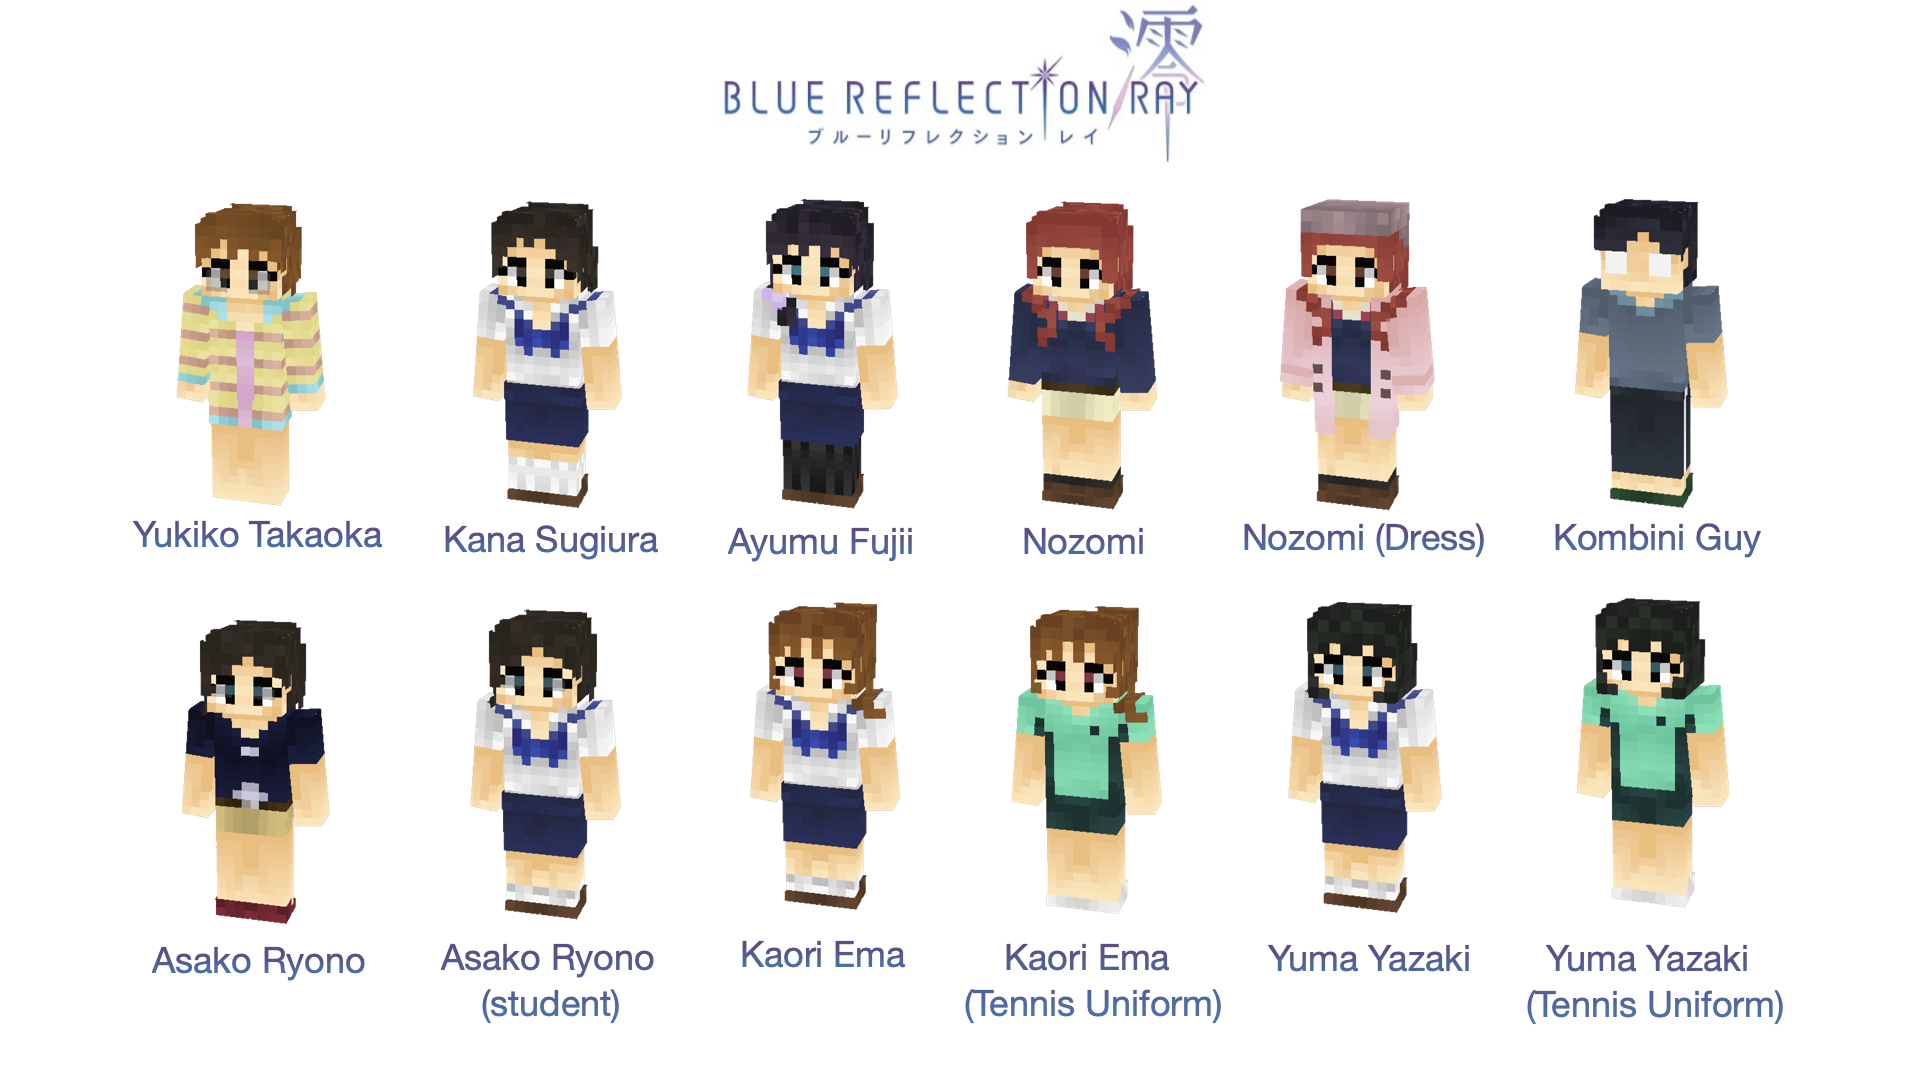
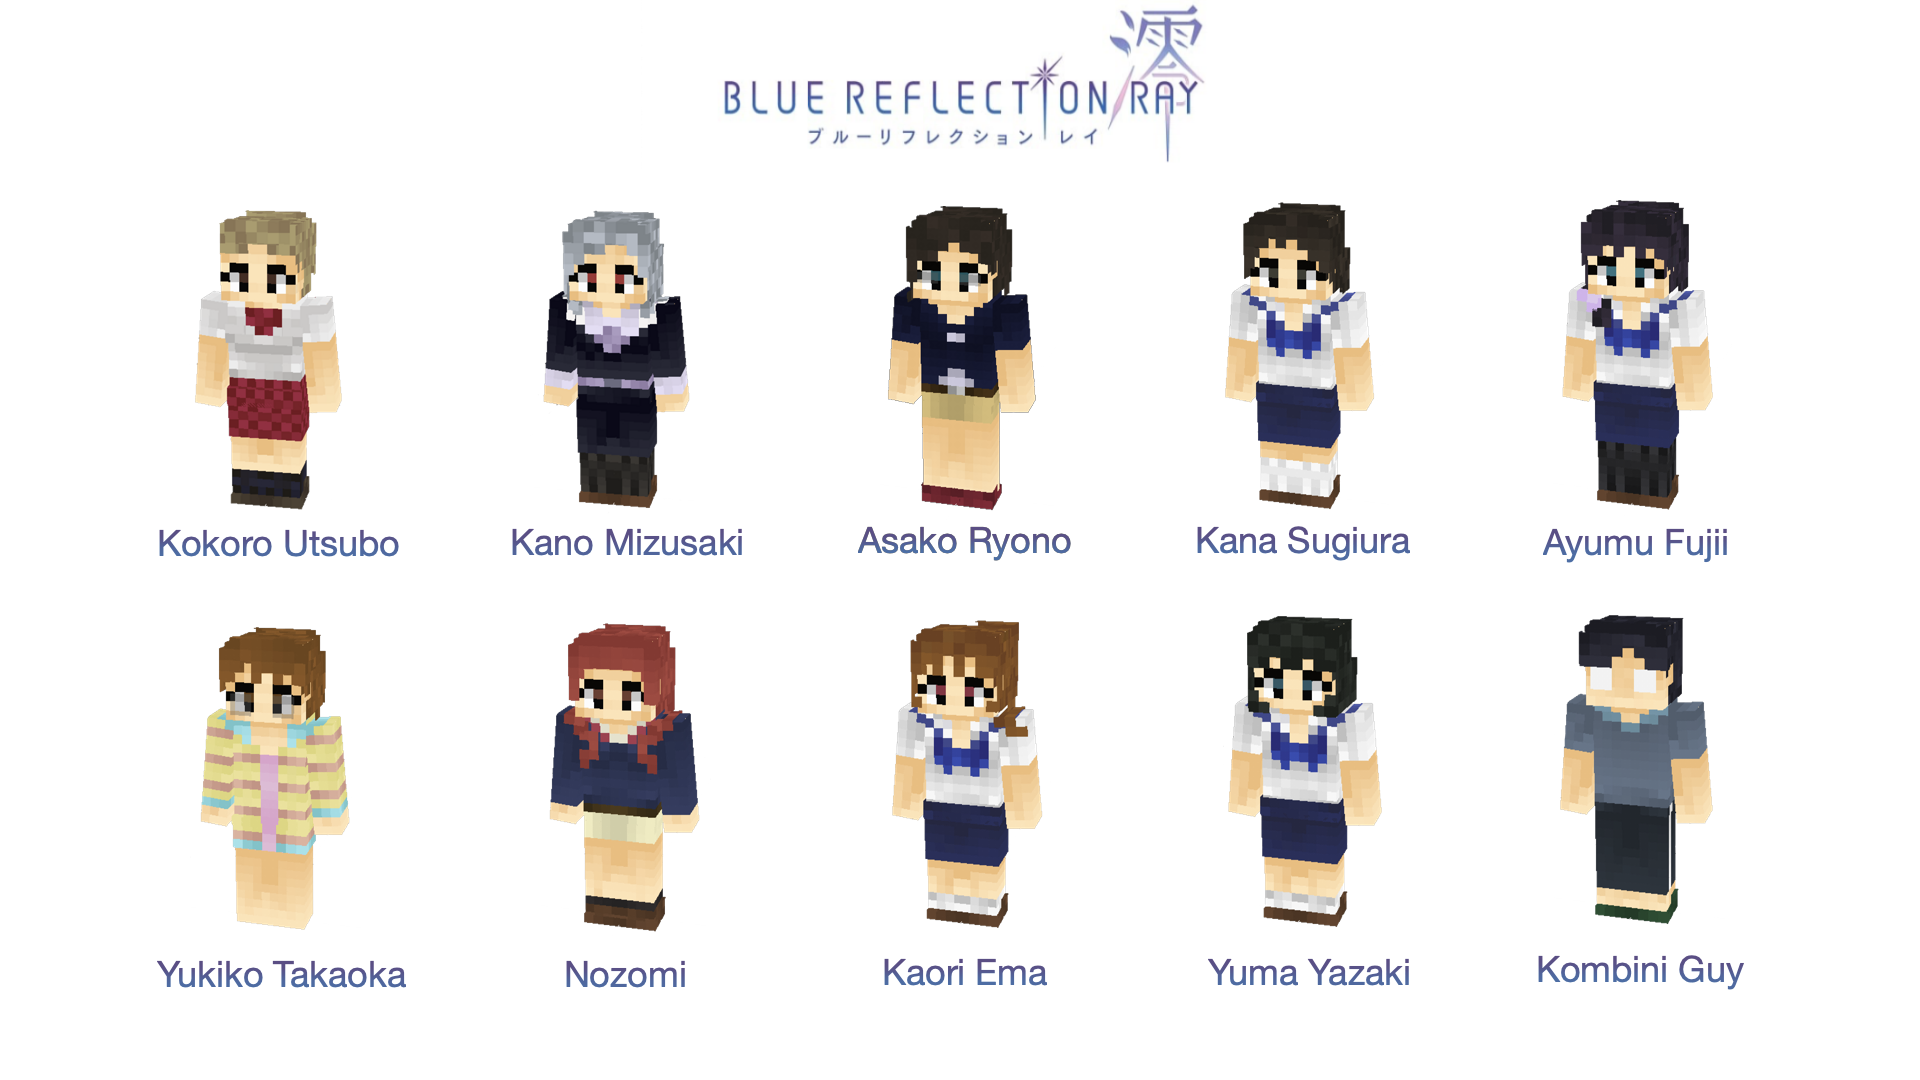
Blue Reflection Ray upgrade and changes
Important changes for the Blue Reflection Ray skins:

- General restructuring for the Blue Reflection Ray folder.
- Kokoro Utsubo is now in the Minor Characters folder.
- Added Kano Mizusaki to the Minor Characters.
- Moved some minor characters skins to a new folder called Additional Skins
- Added new skins to the previous folder based on some outfits from the anime T.V. show.

Changed region(s): [[0.0625, 0.55, 0.9375, 0.9472], [0.0625, 0.1833, 0.9375, 0.5194]]

diff --git a/README.md b/README.md
@@ -115,13 +115,13 @@ Contains the skins of the characters from the first game of the franchise releas
 
 ![Blue Reflection Christmas Outfits](/img/br/BlueReflectionChristmasOutfits.png)
 
+
 ## Blue Reflection Ray
 Contains the skins of the characters from the anime T.V. show, spin-off of the first game, released in 2021.
 
 **Student skins:**
 - Amiru Sumeragi (student)
 - Hiori Hirahara (student)
-- Kokoro Utsubo
 - Lime Shijou
 - Mio Hirahara (student)
 - Miyako Shirakaba
@@ -152,19 +152,43 @@ Contains the skins of the characters from the anime T.V. show, spin-off of the f
 
 **Minor characters:**
 - Asako Ryono
-- Asako Ryono (student)
 - Ayumu Fujii
 - Kana Sugiura
+- Kano Mizusaki
 - Kaori Ema
-- Kaori Ema (Tennis Uniform)
+- Kokoro Utsubo
 - Kombini Guy
 - Nozomi
-- Nozomi (Dress)
 - Yukiko Takaoka
 - Yuma Yazaki
-- Yuma Yazaki (Tennis Uniform)
 
 ![Blue Reflection Ray Minor Characters](/img/brR/BlueReflectionRayMinorCharacters.png)
+
+**Additional skins:**
+- Hiori Hirahara (Physical Education Uniform)
+- Ruka Hanari (Physical Education Uniform)
+- Momo Tanabe (Physical Education Uniform)
+- Miyako Shirakaba (Physical Education Uniform)
+- Uta Komagawa (First Grade Saint Inés Uniform)
+- Momo Tanabe (Platanus Uniform)
+- Mio Hirahara (Platanus Uniform)
+- Ruka Hanari (First School Uniform)
+- Momo Tanabe (First School Uniform)
+- Uta Komagawa (Barefoot)
+
+![Blue Reflection Ray Additional Skins](/img/brR/BlueReflectionRayAdditionalSkins.png)
+
+- Hiori Hirahara (Middle School Uniform)
+- Shino Mizusaki (Middle School Uniform)
+- Mio Hirahara (Middle School Uniform)
+- Kana Sugiura (Tanabata Yukata)
+- Ayumu Fujii (Tanabata Yukata)
+- Asako Ryono (Student)
+- Nozomi (Dress)
+- Kaori Ema (Tennis Uniform)
+- Yuma Yazaki (Tennis Uniform)
+
+![Blue Reflection Ray Additional Skins 2](/img/brR/BlueReflectionRayAdditionalSkins2.png)
 
 
 ## Blue Reflection Tie
